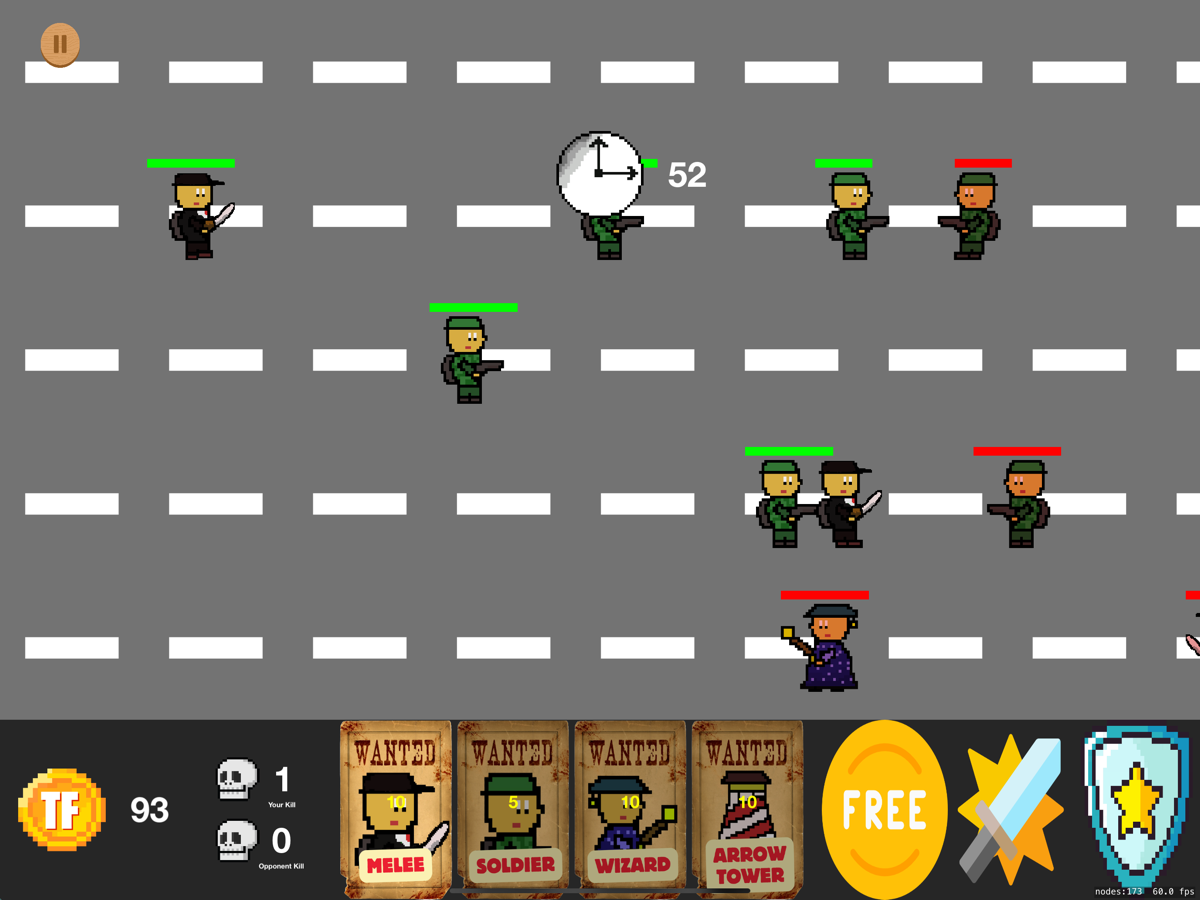
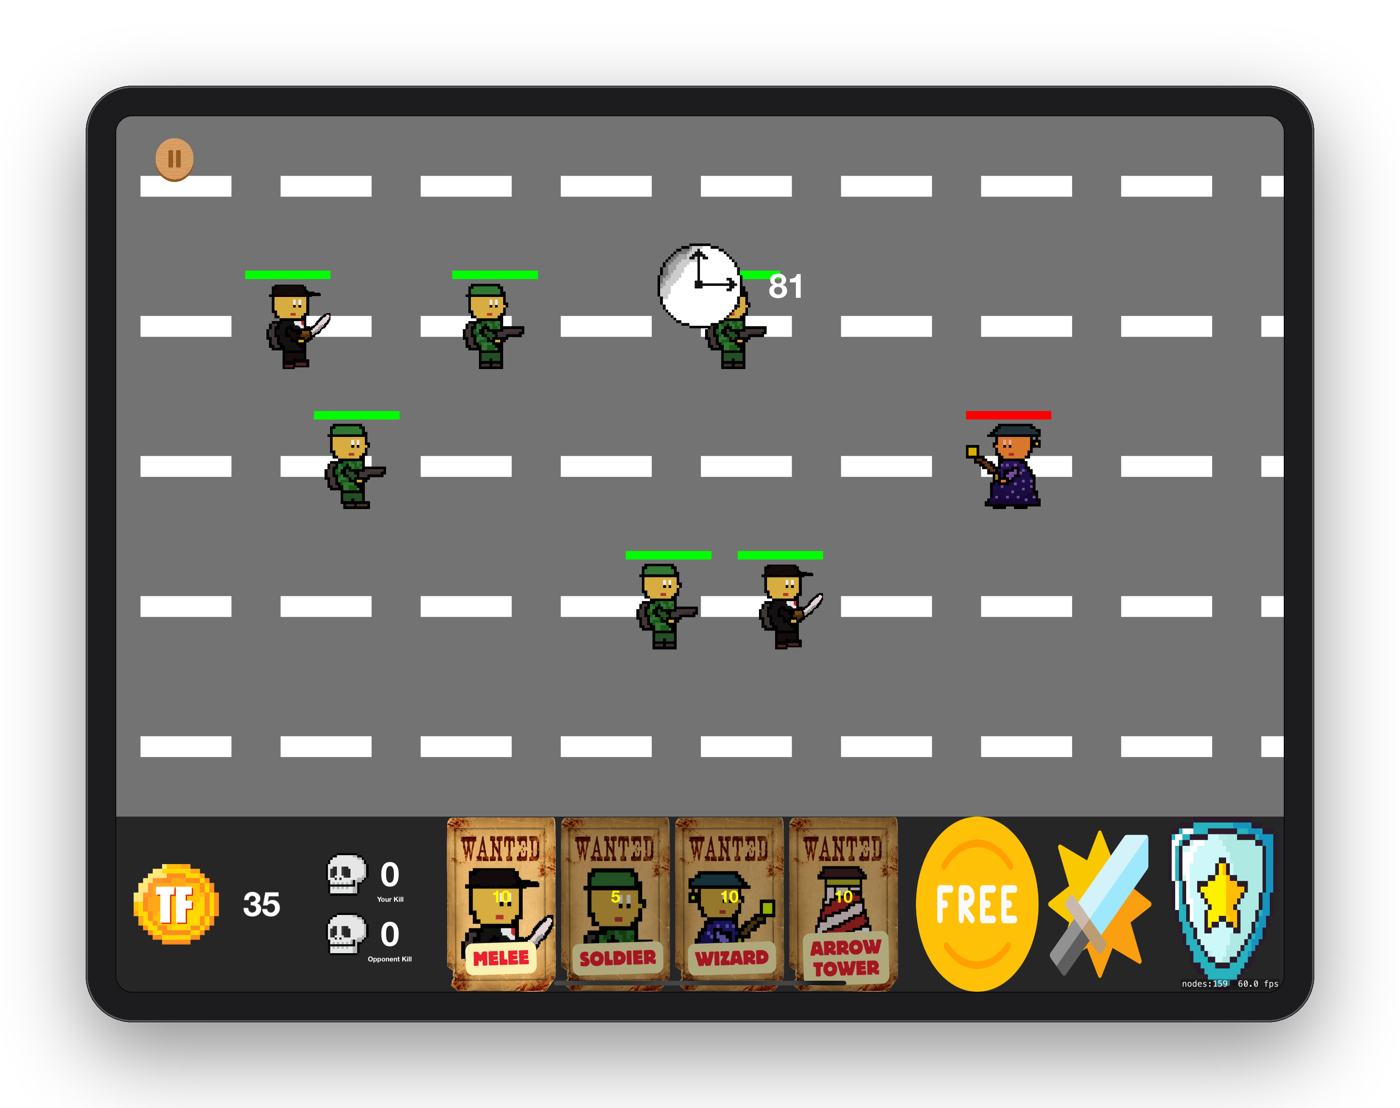
App Store-style framed screenshots; course section; single-player release pending; sharper iOS resume bullets; ARCHITECTURE note; email removed from the privacy policy

diff --git a/README.md b/README.md
@@ -46,7 +46,21 @@ and progress system that follows the player across devices. Built by a team of f
 | **Context** | NUS CS3217 *Software Engineering on Modern Application Platforms*, final team project, Mar – Apr 2024 |
 | **Team** | [Keith Gan](https://github.com/keith-gan), [Phua Zheng Ze](https://github.com/zheng-ze), [Rubesh Suresh](https://github.com/sp4ce-cowboy), [Vanessa Mae](https://github.com/Vanessamae23) |
 | **My role** | The game engine and ECS systems layer; the StorageAPI (local and cloud persistence with conflict resolution, cross-device progress); the MetricsAPI (statistics, achievements, missions, ranks) and the Player screen; the sound manager; power-ups with Keith; CI/CD, SwiftLint and the GitHub setup |
-| **Status** | Complete; App Store publishing pending (privacy policy prepared) |
+| **Status** | Complete; App Store release (single-player first) pending |
+
+## The course
+
+[CS3217](https://cs3217.github.io/cs3217-docs/) is NUS's course on software engineering for
+modern application platforms, taught on iOS in Swift. It is known as one of the most demanding
+software-engineering courses in the School of Computing. [Prof. Ben Leong](https://www.comp.nus.edu.sg/~bleong/)
+ran its early editions (from 2011, when it was taught in Objective-C). In the course's own words
+from that time: [*"CS3217 is really not for everyone. It's really quite hardcore and meant for the
+most highly motivated to push themselves."*](https://comp.nus.edu.sg/~bleong/teaching/cs3217s11-midterm.htm)
+
+The course has two halves. In the first, each student builds a physics game alone, from
+scratch (mine is [Space Peggle](https://github.com/sp4ce-cowboy/SpacePeggle)). In the second,
+teams of four design and ship an app of their own over the rest of the semester, through a
+proposal, two sprints with written reports, and a final report. TowerForge is that second half.
 
 ## Features
 
@@ -99,7 +113,7 @@ More in [ARCHITECTURE.md](ARCHITECTURE.md).
 
 ## Skills shown
 
-| Skill | Where it shows | Docs |
+| Skill | Where it shows (click the links for the code) | Docs |
 |---|---|---|
 | **Game architecture (ECS)**<br><img alt="SpriteKit" src="https://img.shields.io/badge/SpriteKit-ECS-000000?logo=apple&logoColor=white"> | The systems layer and game engine I built: [`TFSystem`](https://github.com/sp4ce-cowboy/TowerForge/blob/19840737a5882af53b65b0e3dfaddc7427e55922/TowerForge/TowerForge/GameModule/Systems/TFSystem.swift), [`SystemManager`](https://github.com/sp4ce-cowboy/TowerForge/blob/19840737a5882af53b65b0e3dfaddc7427e55922/TowerForge/TowerForge/GameModule/Systems/SystemManager.swift), [`GameEngine`](https://github.com/sp4ce-cowboy/TowerForge/blob/19840737a5882af53b65b0e3dfaddc7427e55922/TowerForge/TowerForge/GameModule/GameEngine.swift) | [SpriteKit](https://developer.apple.com/documentation/spritekit) |
 | **Event-driven analytics** | Events feed a statistics engine that notifies its inference engines: [`StatisticSystem`](https://github.com/sp4ce-cowboy/TowerForge/blob/19840737a5882af53b65b0e3dfaddc7427e55922/TowerForge/TowerForge/GameModule/Systems/BaseSystems/StatisticSystem.swift), [`StatisticsEngine`](https://github.com/sp4ce-cowboy/TowerForge/blob/19840737a5882af53b65b0e3dfaddc7427e55922/TowerForge/TowerForge/Metrics/Statistics/StatisticsEngine.swift#L53-L78) | [Observer pattern](https://en.wikipedia.org/wiki/Observer_pattern) |
@@ -113,9 +127,10 @@ More in [ARCHITECTURE.md](ARCHITECTURE.md).
 
 ## App Store
 
-Publishing on the App Store is **pending**. The game runs on iPad (iPadOS 16+), and a
-[privacy policy](privacy-policy.md) is prepared. The release is planned once an Apple
-Developer Program membership is in place.
+Publishing on the App Store is **pending**. The first release will be **single-player**
+(against the AI), with online multiplayer and accounts to follow. The game runs on iPad
+(iPadOS 16+), and a [privacy policy](privacy-policy.md) is prepared. The release is planned
+once an Apple Developer Program membership is in place.
 
 ## Coding stats
 
@@ -123,7 +138,7 @@ My own numbers, from git and [WakaTime](https://wakatime.com).
 
 | | |
 |---|---|
-| **Commits** | **250**, the most on the team (of 647) |
+| **Commits** | **250** (of 647 in the repo) |
 | **Code** | about **4,000** of the 12,200 Swift lines in the final game, and 9,600 Swift lines added overall |
 | **Time** | **105 h** of coding: 103 h during the project (18 Mar – 22 Apr 2024) |
 | **Peak week** | **46 h** (15 – 21 Apr 2024, the final week) |
@@ -149,7 +164,9 @@ Hours per week (2024)
 
 ## On my resume
 
-- Built the metrics system for TowerForge, a multiplayer iPad tower-defence game in Swift and SpriteKit. Game events feed a statistics engine, and pluggable inference engines read the same statistics to drive achievements, missions and an eight-tier rank system, so new goals need no new storage.
-- Engineered offline-first player progress: statistics persist locally first and sync to Firebase Realtime Database, with metadata (player, device, last update) and three conflict-resolution strategies (merge per statistic, keep latest, preserve local), so progress carries across devices on login.
-- Built the game engine's systems layer in a four-person entity–component–system codebase, plus the sound manager and power-ups. Set up CI (xcodebuild and simulator tests on GitHub Actions) and SwiftLint for the team.
-- Built the Player screen in UIKit: rank progression from Private to General with an XP progress bar and a character that changes with rank, live career statistics (kills, deaths, K/D ratio, games, XP), and achievement and mission lists whose progress bars are driven by the inference engines.
+- Engineered offline-first player progress for TowerForge, a multiplayer iPad game in Swift. Statistics persist locally (Codable, FileManager) and sync to Firebase Realtime Database with player, device and timestamp metadata. Three pluggable conflict-resolution strategies merge progress across devices on login.
+- Designed an event-driven metrics system: game events feed a statistics engine, and pluggable inference engines behind one protocol read the same statistics to drive achievements, missions and an eight-tier rank system. New goal types need no new storage (Single Responsibility and Open–Closed).
+- Built the game engine and systems layer of a SpriteKit entity–component–system codebase shared by four developers. Systems can be toggled and are stepped every frame by a system manager, and a protocol-backed engine reports results through delegates.
+- Built the Player screen in UIKit: rank progression from Private to General with an XP bar and a character that changes with rank, live career statistics (kills, deaths, K/D ratio, games, XP), and achievement and mission lists driven by the inference engines.
+- Implemented sync flows aware of Firebase Authentication (first login, re-login on a new device, logout) and an AVFoundation sound manager. Co-built the power-ups, implemented as event transformations that rewrite queued game events.
+- Set up the team's CI on GitHub Actions (xcodebuild build and simulator tests on every push and pull request) and SwiftLint, for a team that worked across 25 branches and 82 pull requests.

diff --git a/ARCHITECTURE.md b/ARCHITECTURE.md
@@ -1,5 +1,10 @@
 # TowerForge: architecture
 
+> [!NOTE]
+> This architecture write-up was added by [Claude](https://docs.anthropic.com/en/docs/claude-code)
+> using my [agentic-repo-analysis](https://github.com/sp4ce-cowboy/agentic-workflows) skill, from the
+> project's code, git history and documentation.
+
 A technical write-up of TowerForge, from the code, the git history and the team's four
 reports in [docs/reports](docs/reports). Sections 6–8 cover the parts I built in depth.
 Back to the [README](README.md).

diff --git a/privacy-policy.md b/privacy-policy.md
@@ -4,6 +4,6 @@ This app does not collect, store, or share any personal information or data from
 
 We do not use third-party analytics or advertising services.
 
-If you have any questions about this privacy policy, you may contact us at towerforge00@gmail.com.
+If you have any questions about this privacy policy, please open an issue at https://github.com/sp4ce-cowboy/TowerForge/issues.
 
 Last updated: 24 March 2025
